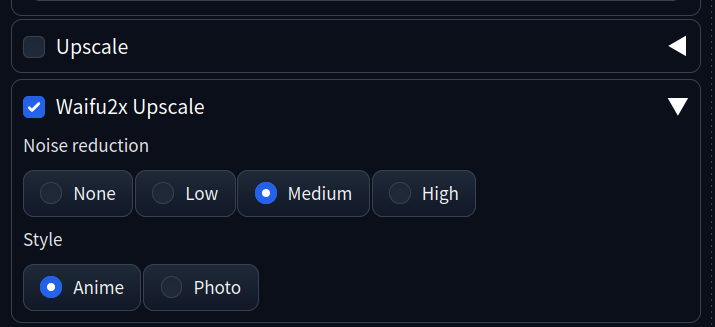
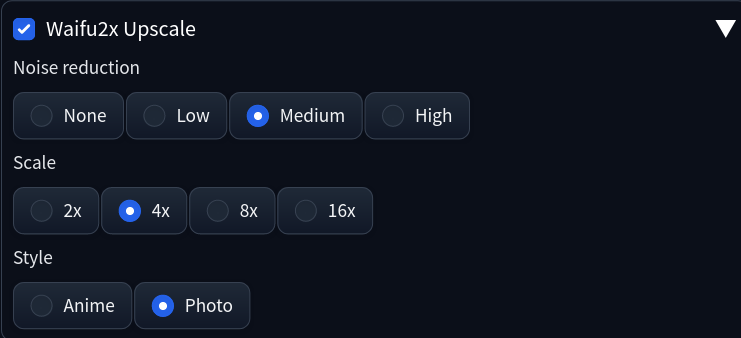
add simple scale and fix cache

Changed region(s): [[0.0, 0.0, 1.0, 1.0], [0.9231, 0.2752, 0.9846, 0.367]]

diff --git a/scripts/waifu2x_postprocessing.py b/scripts/waifu2x_postprocessing.py
@@ -24,28 +24,34 @@ class Waifu2xExtras(scripts_postprocessing.ScriptPostprocessing):
                 enable = gr.Checkbox(False, label="Enable")
             noise = gr.Radio(value='Medium', choices=["None", "Low", "Medium", "High"],
                         label="Noise reduction", type="index")
+            scale = gr.Radio(value='4x', choices=["2x", "4x", "8x", "16x"],
+                        label="Scale", type="index")
             style = gr.Radio(value="Anime", choices=["Anime", "Photo"], label="Style")
 
         args = {
             'enable': enable,
             'noise' : noise,
-            'style' : style
+            'scale' : scale,
+            'style' : style,
         }
         return args
 
     def process_firstpass(self, pp: scripts_postprocessing.PostprocessedImage, **args):
-        pp.shared.target_width = pp.image.width * 2
-        pp.shared.target_height = pp.image.height * 2
+        pp.shared.target_width = pp.image.width * 2 ** (args['scale'] + 1)
+        pp.shared.target_height = pp.image.height * 2 ** (args['scale'] + 1)
 
     def process(self, pp: scripts_postprocessing.PostprocessedImage, **args):
         if args['enable'] == False:
             return
 
         model = getModel(args['noise'], args['style'])
-        pp.image = processImageWithSplitter(model, pp.image)
+        for _ in range(args['scale'] + 1):
+            pp.image = processImageWithSplitter(model, pp.image)
 
         info = copy.copy(args)
         del info['enable']
+        info['noise'] = ["None", "Low", "Medium", "High"][info['noise']]
+        info['scale'] = ["2x", "4x", "8x", "16x"][info['scale']]
         pp.info[self.name] = str(info)
 
 

diff --git a/waifu2x/main.py b/waifu2x/main.py
@@ -38,16 +38,12 @@ _models_cache = {}
 
 def getModel(noise: int, style: str):
     global _models_cache
-    fileName = f'noise{noise}_scale2.0x_model.json'
+    fileName = os.path.join(style.lower(), f'noise{noise}_scale2.0x_model.json')
 
     if fileName not in _models_cache:
-        if style == 'Photo':
-            style = 'photo'
-        else:
-            style = 'anime'
         model = UpConv_7()
         modelDir = os.path.join(FILE_PATH, 'yu45020', 'model_check_points', 'Upconv_7')
-        weightsPath = os.path.join(modelDir, style, fileName)
+        weightsPath = os.path.join(modelDir, fileName)
         model.load_pre_train_weights(weightsPath)
         model = model.to(devices.device)
         _models_cache[fileName] = model
